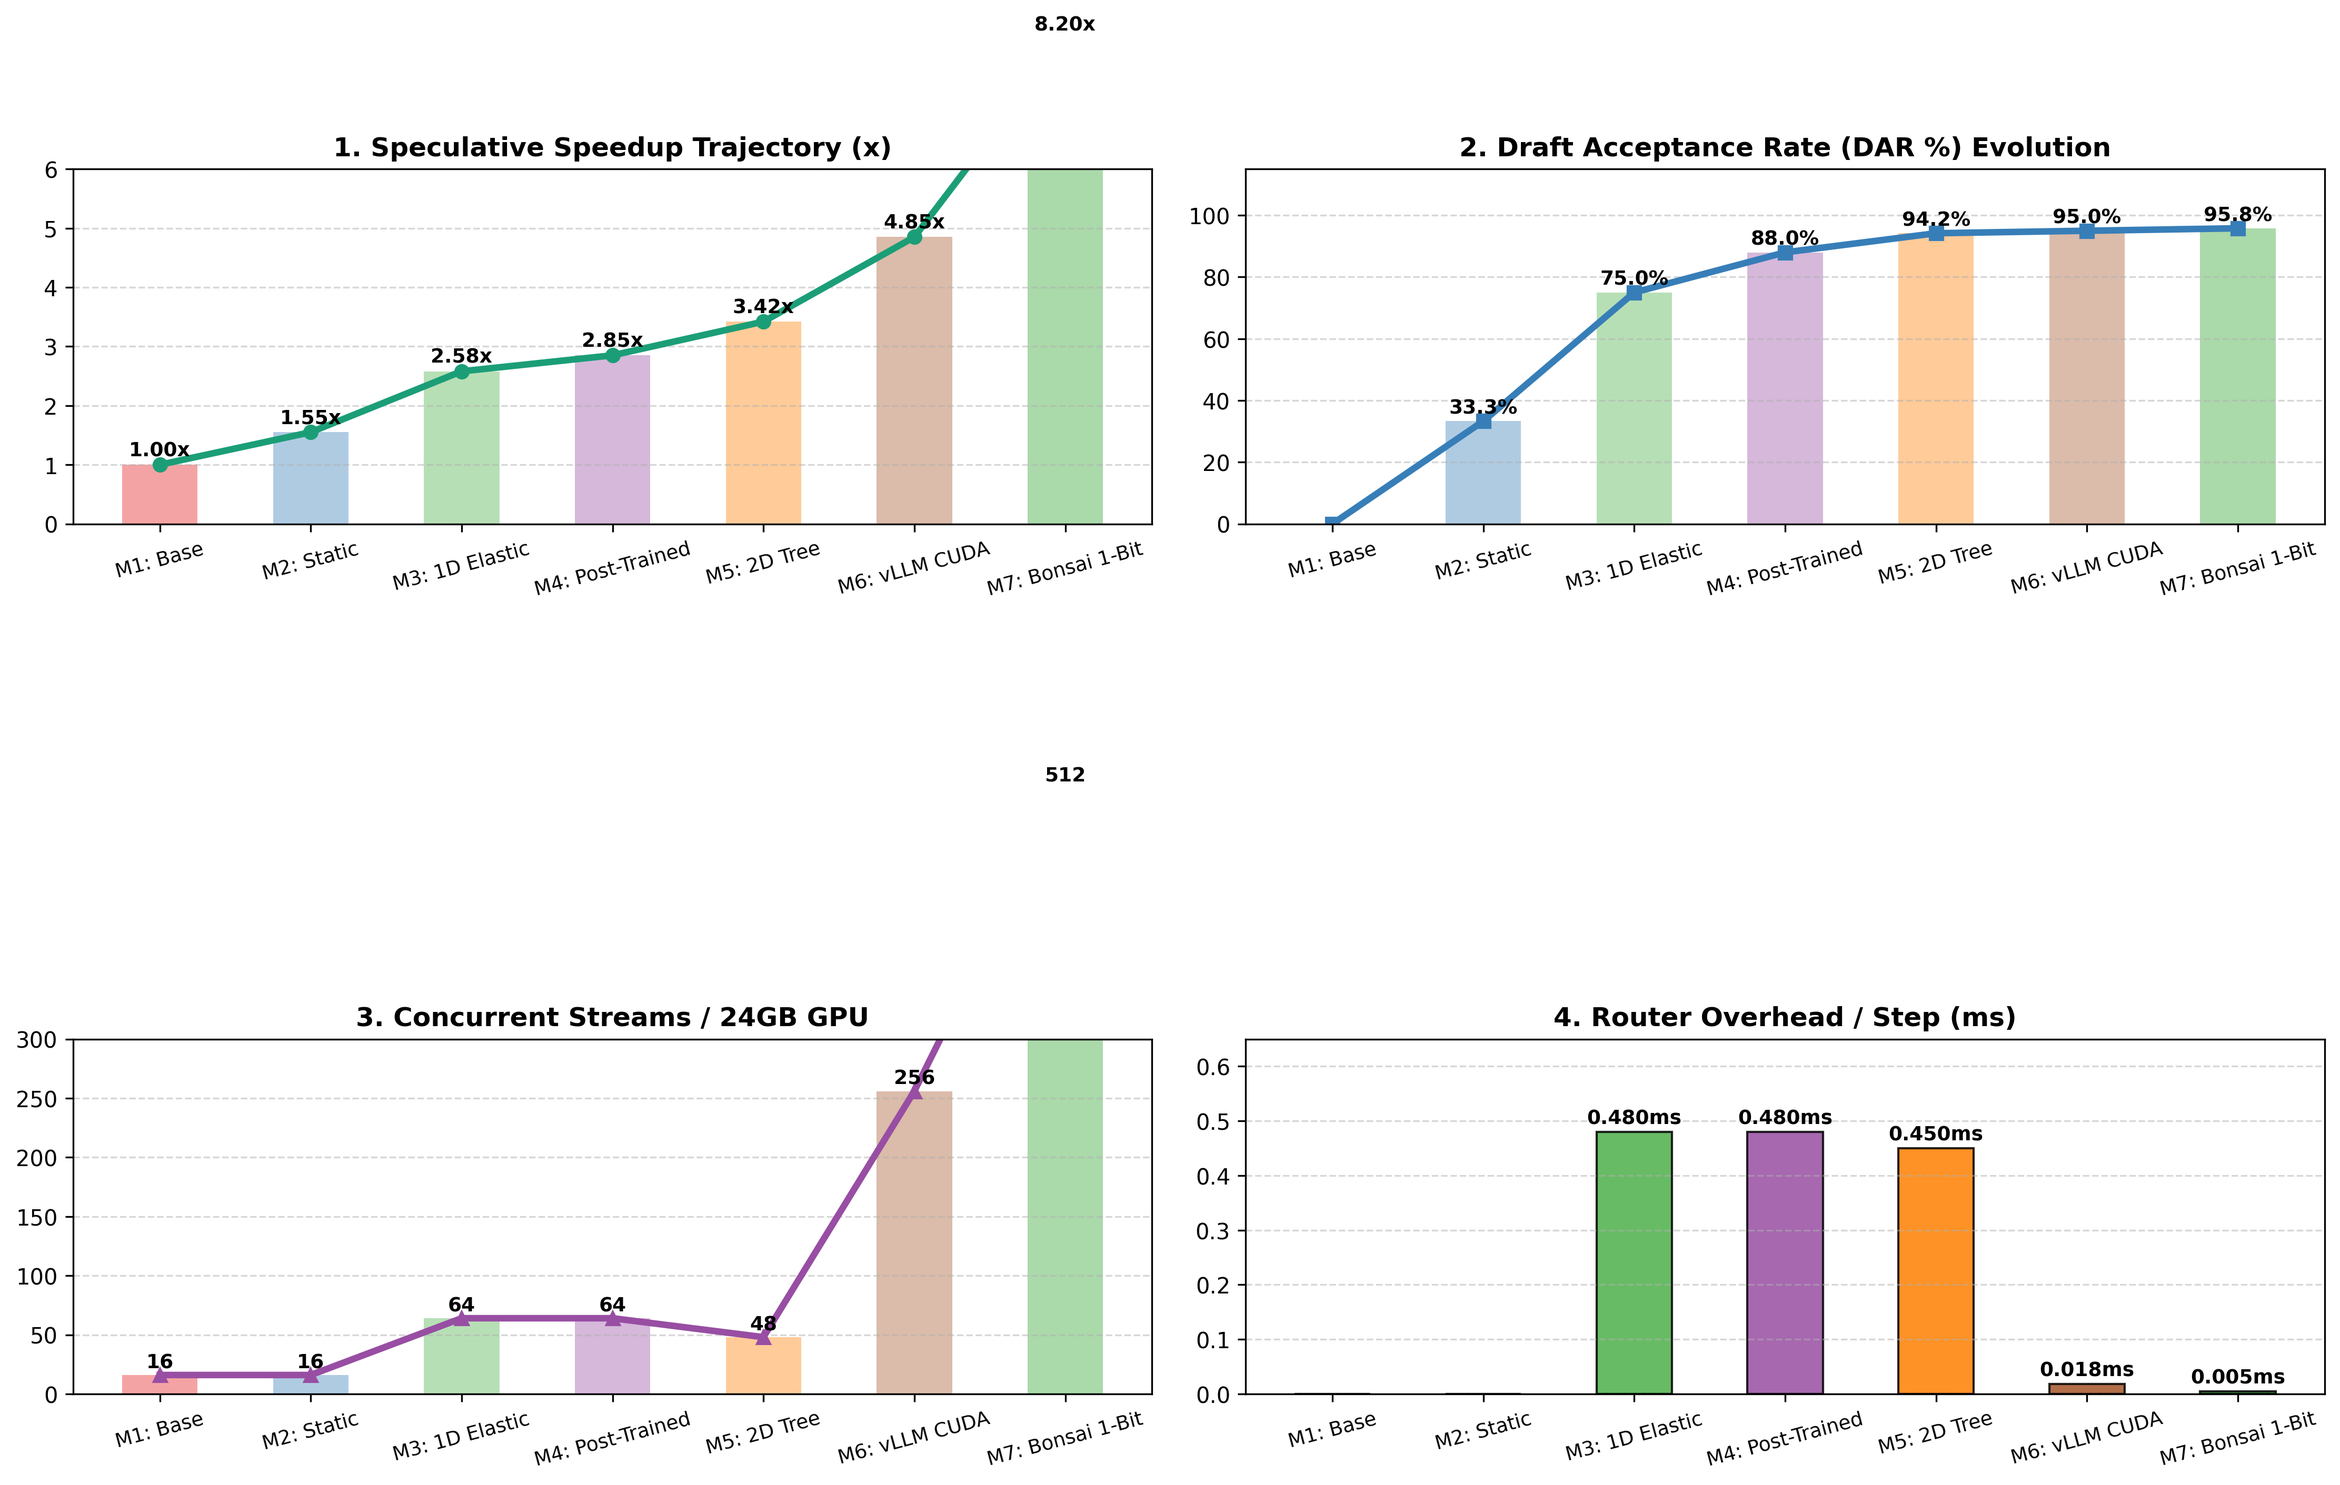
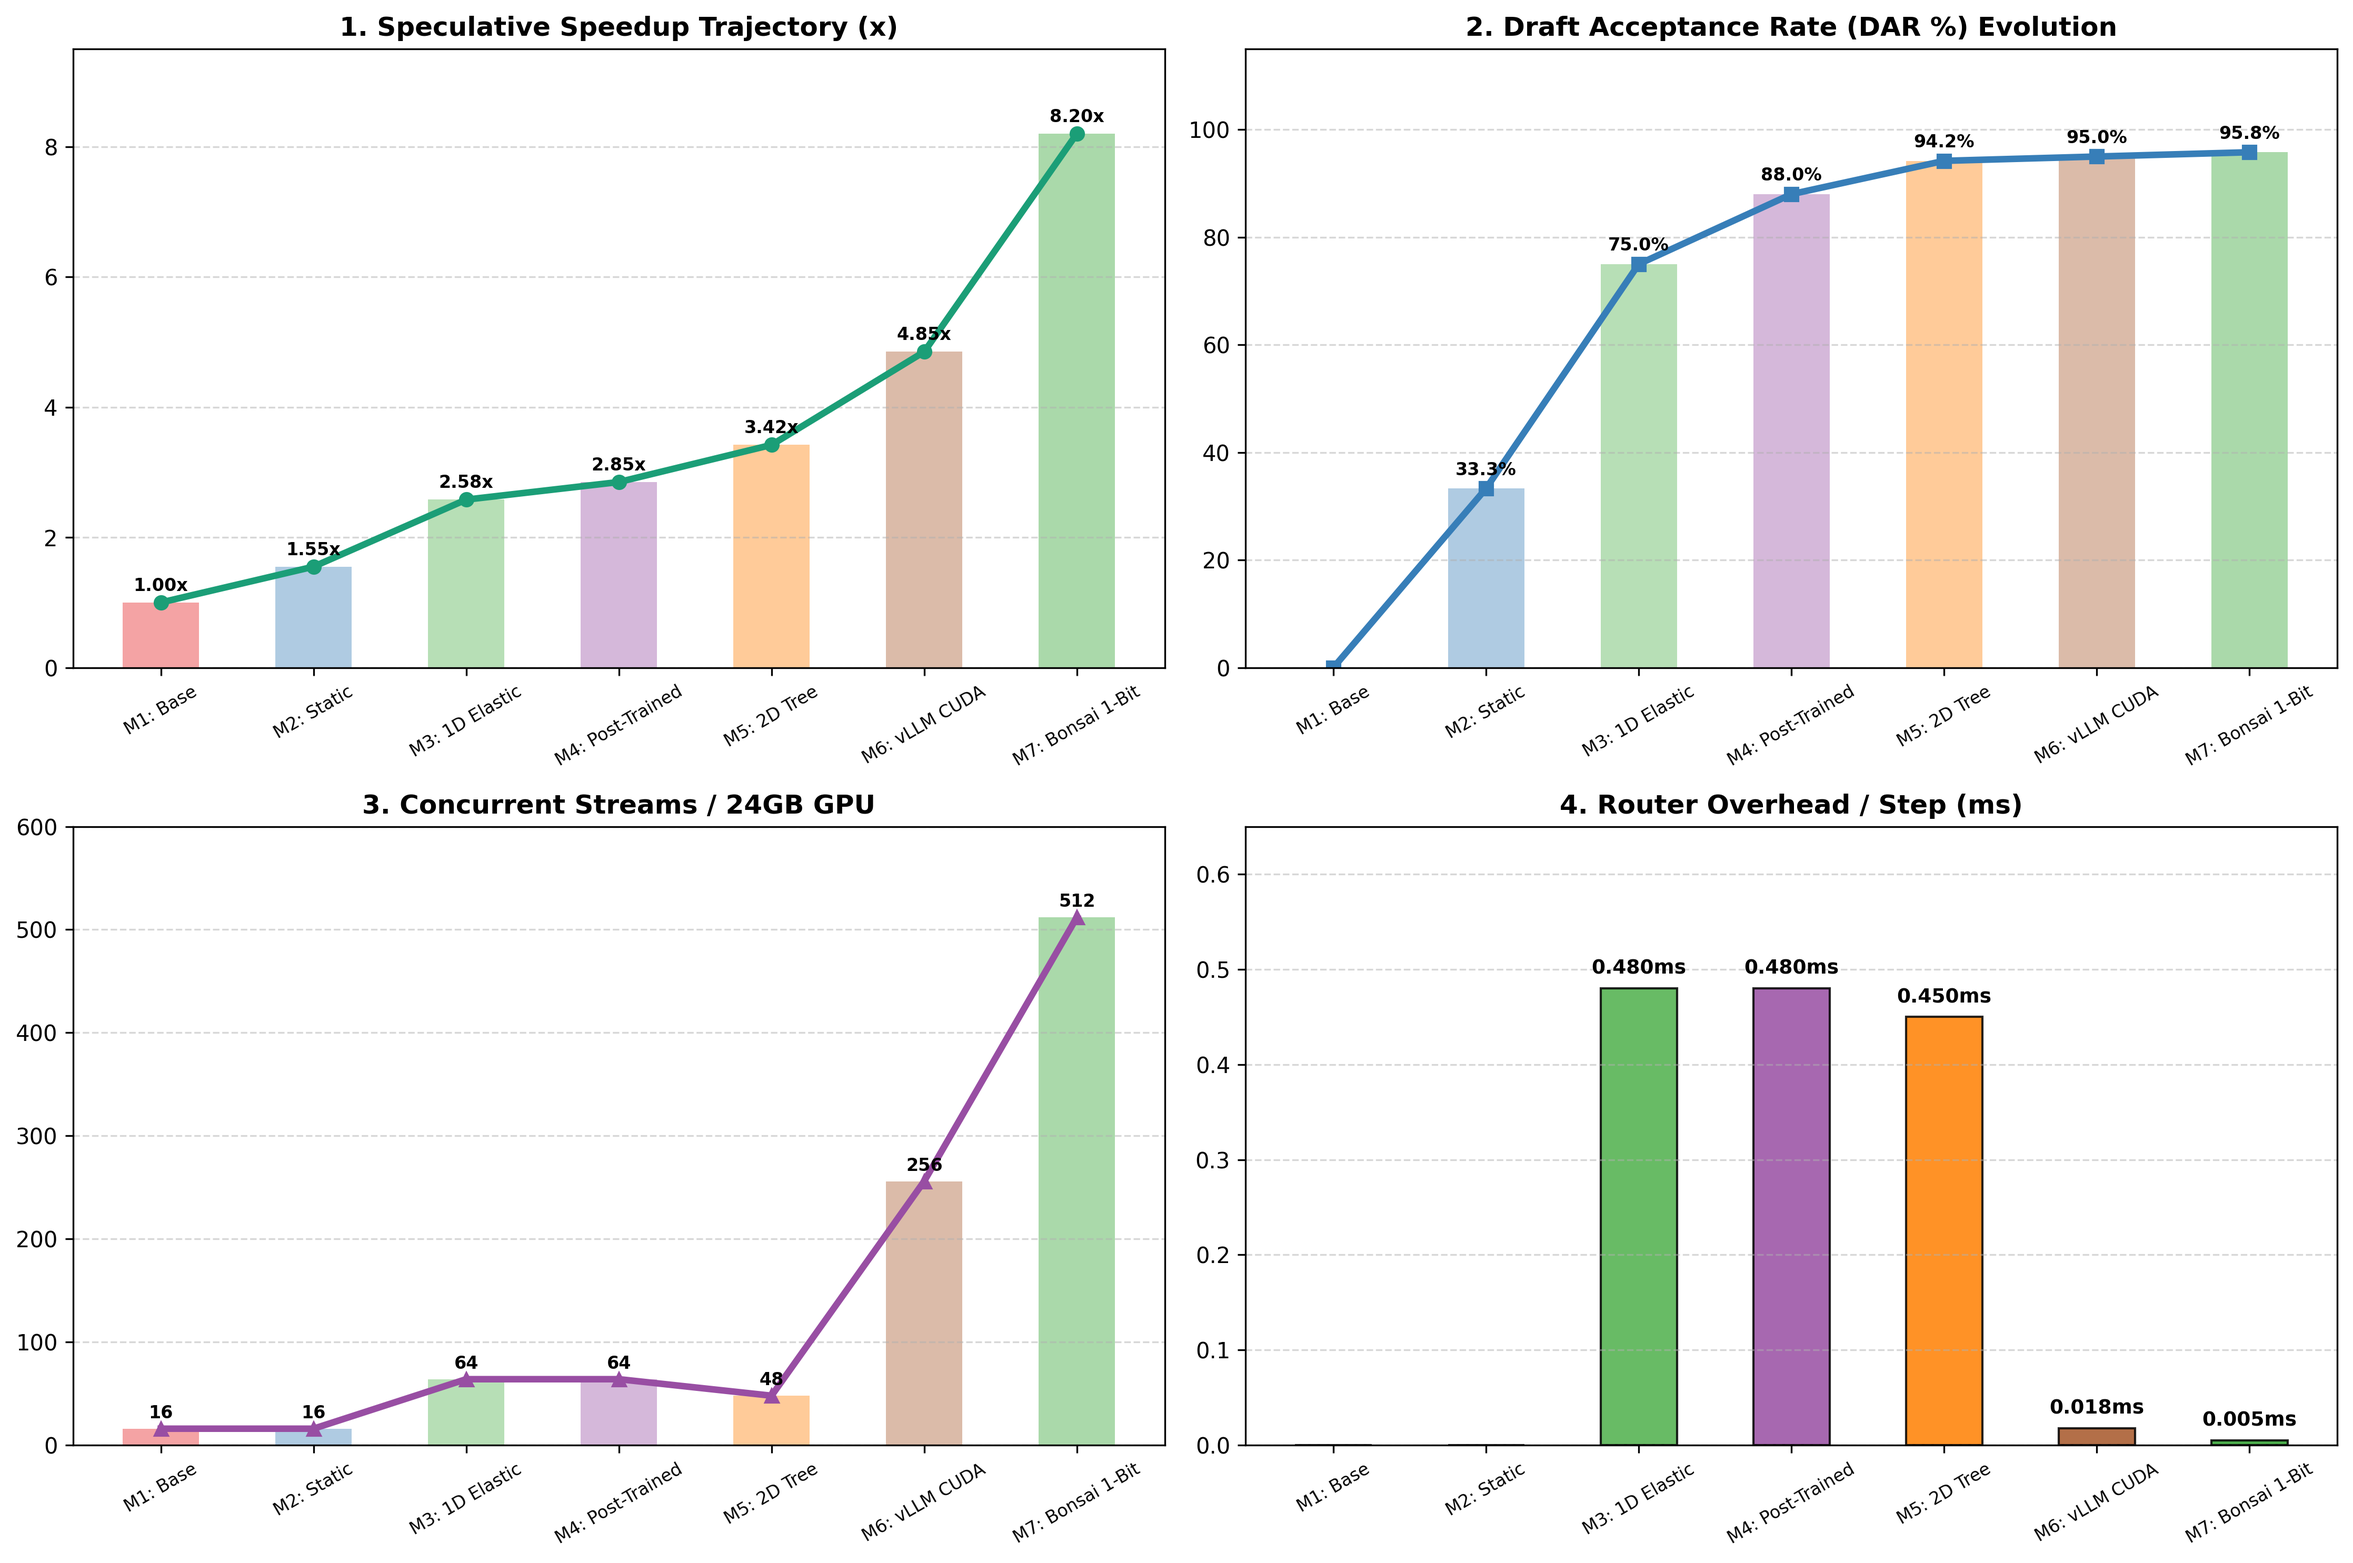
fix: adjust y-axis limits and label rotation in benchmark charts for perfect scaling

diff --git a/benchmark/generate_all_improved_benchmark_charts.py b/benchmark/generate_all_improved_benchmark_charts.py
@@ -217,11 +217,11 @@ def generate_all_improved_charts():
     axes[0, 0].plot(milestones, speedups, marker="o", linewidth=3, color="#1b9e77")
     b_p1 = axes[0, 0].bar(milestones, speedups, color=colors, alpha=0.4, width=0.5)
     axes[0, 0].set_title("1. Speculative Speedup Trajectory (x)", fontweight="bold")
-    axes[0, 0].set_ylim(0, 6.0)
+    axes[0, 0].set_ylim(0, 9.5)
     axes[0, 0].grid(axis="y", linestyle="--", alpha=0.5)
-    axes[0, 0].tick_params(axis="x", rotation=15, labelsize=9)
+    axes[0, 0].tick_params(axis="x", rotation=30, labelsize=8)
     for b in b_p1:
-        axes[0, 0].text(b.get_x() + b.get_width()/2, b.get_height() + 0.15, f"{b.get_height():.2f}x", ha="center", fontweight="bold", fontsize=9)
+        axes[0, 0].text(b.get_x() + b.get_width()/2, b.get_height() + 0.18, f"{b.get_height():.2f}x", ha="center", fontweight="bold", fontsize=8)
 
     # Panel 2
     axes[0, 1].plot(milestones, dars, marker="s", linewidth=3, color="#377eb8")
@@ -229,27 +229,27 @@ def generate_all_improved_charts():
     axes[0, 1].set_title("2. Draft Acceptance Rate (DAR %) Evolution", fontweight="bold")
     axes[0, 1].set_ylim(0, 115)
     axes[0, 1].grid(axis="y", linestyle="--", alpha=0.5)
-    axes[0, 1].tick_params(axis="x", rotation=15, labelsize=9)
+    axes[0, 1].tick_params(axis="x", rotation=30, labelsize=8)
     for b in b_p2:
         if b.get_height() > 0:
-            axes[0, 1].text(b.get_x() + b.get_width()/2, b.get_height() + 2.5, f"{b.get_height():.1f}%", ha="center", fontweight="bold", fontsize=9)
+            axes[0, 1].text(b.get_x() + b.get_width()/2, b.get_height() + 2.5, f"{b.get_height():.1f}%", ha="center", fontweight="bold", fontsize=8)
 
     # Panel 3
     axes[1, 0].plot(milestones, concurrency, marker="^", linewidth=3, color="#984ea3")
     b_p3 = axes[1, 0].bar(milestones, concurrency, color=colors, alpha=0.4, width=0.5)
     axes[1, 0].set_title("3. Concurrent Streams / 24GB GPU", fontweight="bold")
-    axes[1, 0].set_ylim(0, 300)
+    axes[1, 0].set_ylim(0, 600)
     axes[1, 0].grid(axis="y", linestyle="--", alpha=0.5)
-    axes[1, 0].tick_params(axis="x", rotation=15, labelsize=9)
+    axes[1, 0].tick_params(axis="x", rotation=30, labelsize=8)
     for b in b_p3:
-        axes[1, 0].text(b.get_x() + b.get_width()/2, b.get_height() + 6.0, f"{int(b.get_height())}", ha="center", fontweight="bold", fontsize=9)
+        axes[1, 0].text(b.get_x() + b.get_width()/2, b.get_height() + 10.0, f"{int(b.get_height())}", ha="center", fontweight="bold", fontsize=8)
 
     # Panel 4
     b_p4 = axes[1, 1].bar(milestones, router_lat, color=colors, alpha=0.85, width=0.5, edgecolor="black")
     axes[1, 1].set_title("4. Router Overhead / Step (ms)", fontweight="bold")
     axes[1, 1].set_ylim(0, 0.65)
     axes[1, 1].grid(axis="y", linestyle="--", alpha=0.5)
-    axes[1, 1].tick_params(axis="x", rotation=15, labelsize=9)
+    axes[1, 1].tick_params(axis="x", rotation=30, labelsize=8)
     for b in b_p4:
         if b.get_height() > 0:
             axes[1, 1].text(b.get_x() + b.get_width()/2, b.get_height() + 0.015, f"{b.get_height():.3f}ms", ha="center", fontweight="bold", fontsize=9)
